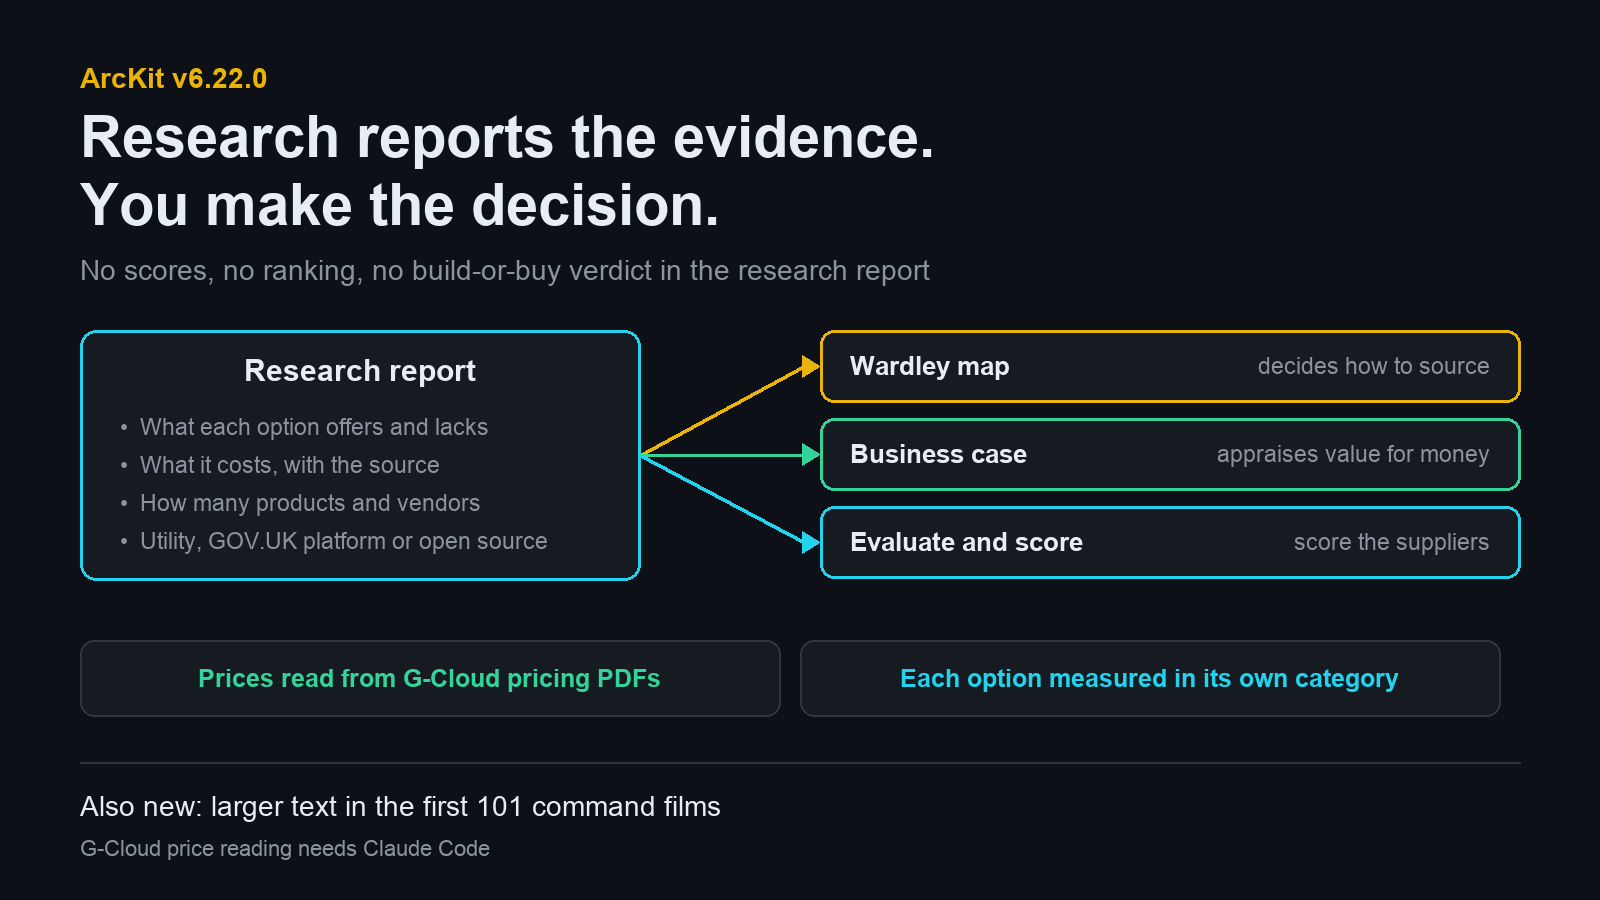
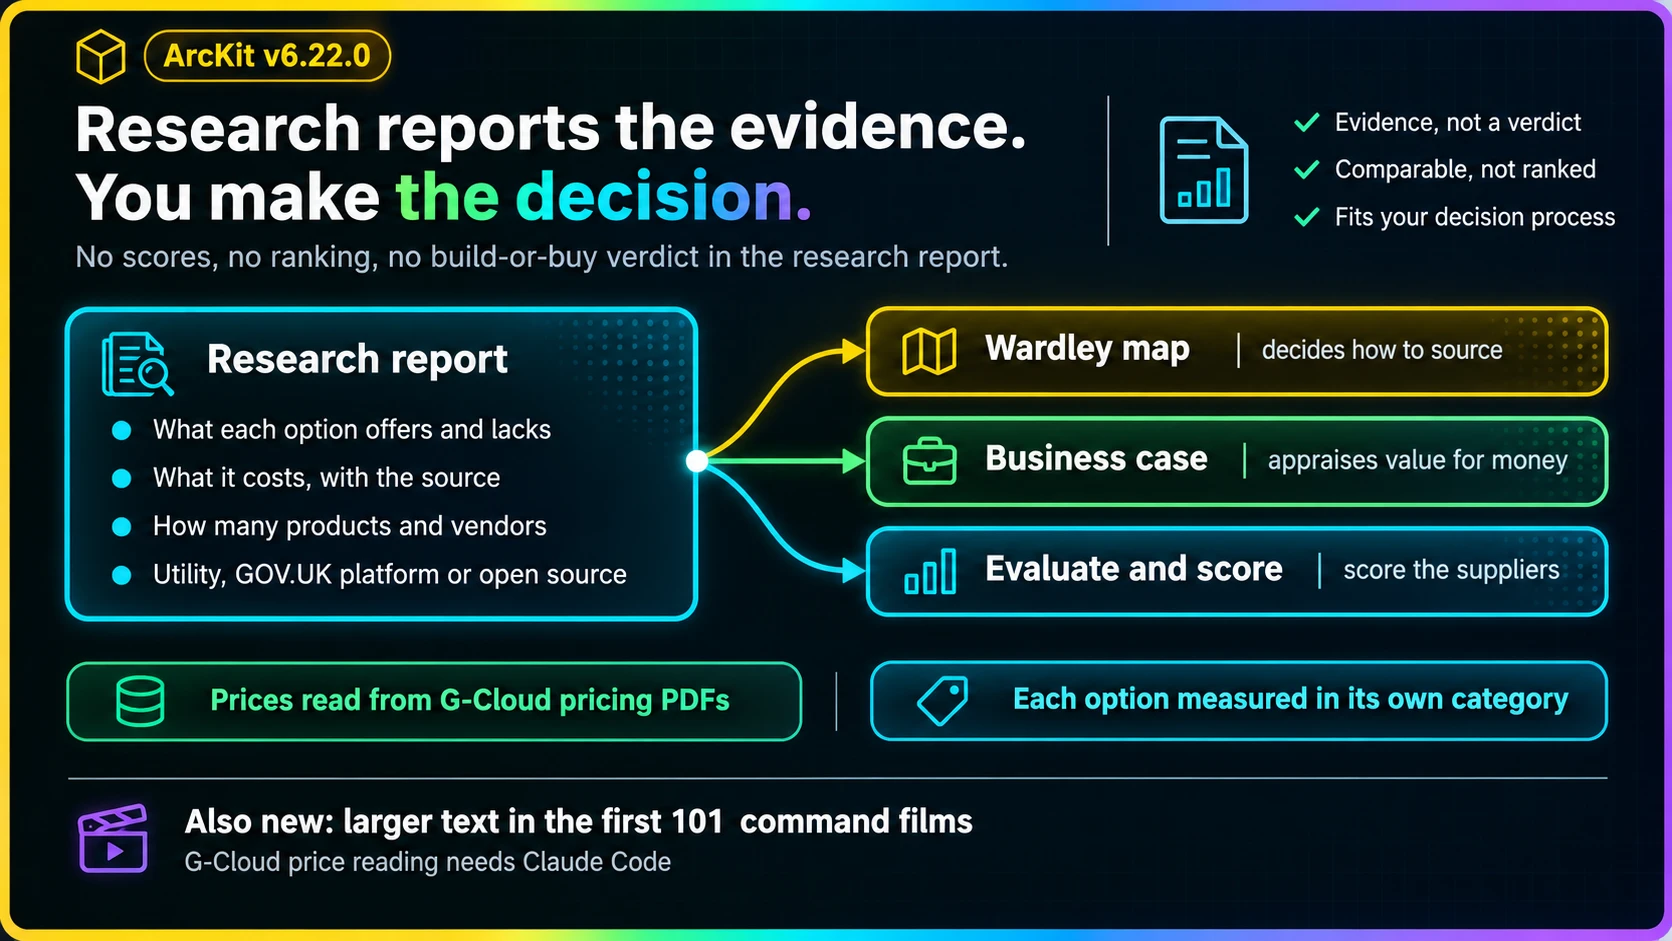
docs: use the redesigned hero for the v6.22.0 article
Claude-Session: https://claude.ai/code/session_01Hfsx57Abq4q7B4o2C98cEK

diff --git a/docs/share/2026-11-12-arckit-v6-22-research-reports-evidence.html b/docs/share/2026-11-12-arckit-v6-22-research-reports-evidence.html
@@ -23,7 +23,7 @@
     <meta property="og:url" content="https://arckit.org/share/2026-11-12-arckit-v6-22-research-reports-evidence.html">
     <meta property="og:site_name" content="ArcKit">
     <meta property="og:image" content="https://arckit.org/articles/2026-11-12-arckit-v6-22-research-reports-evidence-hero.png">
-    <meta property="og:image:alt" content="ArcKit v6.22.0 hero: the research report holds what each option offers, lacks and costs and how many products and vendors cover it, while the Wardley map decides how to source, the business case appraises value for money, and evaluate and score assess the suppliers.">
+    <meta property="og:image:alt" content="ArcKit v6.22.0 hero: evidence, not a verdict; comparable, not ranked. The research report holds what each option offers, lacks and costs and how many products and vendors cover it, while the Wardley map decides how to source, the business case appraises value for money, and evaluate and score assess the suppliers.">
     <meta name="twitter:card" content="summary_large_image">
     <meta name="twitter:title" content="ArcKit v6.22.0: Research Reports the Evidence, You Make the Decision">
     <meta name="twitter:description" content="/arckit:research now reports what each option offers, lacks and costs, and makes no build-or-buy call. It also reads prices from G-Cloud pricing documents.">
@@ -293,7 +293,7 @@
     <main class="govuk-main-wrapper" id="main-content" role="main">
         <div class="govuk-width-container">
             <a href="../articles.html" class="govuk-back-link govuk-!-margin-bottom-6">Back to Articles</a>
-<img class="app-article-hero-img" src="../articles/2026-11-12-arckit-v6-22-research-reports-evidence-hero.png" alt="ArcKit v6.22.0 hero: the research report holds what each option offers, lacks and costs and how many products and vendors cover it, while the Wardley map decides how to source, the business case appraises value for money, and evaluate and score assess the suppliers.">
+<img class="app-article-hero-img" src="../articles/2026-11-12-arckit-v6-22-research-reports-evidence-hero.png" alt="ArcKit v6.22.0 hero: evidence, not a verdict; comparable, not ranked. The research report holds what each option offers, lacks and costs and how many products and vendors cover it, while the Wardley map decides how to source, the business case appraises value for money, and evaluate and score assess the suppliers.">
 <div class="app-article-meta"><span class="app-article-meta__date">12 November 2026</span></div>
 <article id="content" class="app-markdown">
 <p><strong>ArcKit v6.22.0 is out. <code>/arckit:research</code> now reports what it found and stops there: no scores, no ranking, no build-or-buy verdict. It also reads prices from G-Cloud pricing documents, so more options arrive with a real price.</strong></p>

diff --git a/docs/articles.html b/docs/articles.html
@@ -335,7 +335,7 @@
                 <!-- 2026-11-12 ArcKit v6.22.0: Research Reports the Evidence, You Make the Decision -->
                 <article class="app-article-card">
                     <a class="app-article-card__media" href="share/2026-11-12-arckit-v6-22-research-reports-evidence.html">
-                        <img src="articles/2026-11-12-arckit-v6-22-research-reports-evidence-hero.png" alt="ArcKit v6.22.0 hero: the research report holds what each option offers, lacks and costs and how many products and vendors cover it, while the Wardley map decides how to source, the business case appraises value for money, and evaluate and score assess the suppliers." loading="lazy">
+                        <img src="articles/2026-11-12-arckit-v6-22-research-reports-evidence-hero.png" alt="ArcKit v6.22.0 hero: evidence, not a verdict; comparable, not ranked. The research report holds what each option offers, lacks and costs and how many products and vendors cover it, while the Wardley map decides how to source, the business case appraises value for money, and evaluate and score assess the suppliers." loading="lazy">
                     </a>
                     <div class="app-article-card__body">
                         <div class="app-article-card__meta">

diff --git a/docs/index.html b/docs/index.html
@@ -880,7 +880,7 @@
             <div class="app-article-teaser-grid">
                 <article class="app-article-teaser">
                     <a class="app-article-teaser__media" href="share/2026-11-12-arckit-v6-22-research-reports-evidence.html">
-                        <img src="articles/2026-11-12-arckit-v6-22-research-reports-evidence-hero.png" alt="ArcKit v6.22.0 hero: the research report holds what each option offers, lacks and costs and how many products and vendors cover it, while the Wardley map decides how to source, the business case appraises value for money, and evaluate and score assess the suppliers." loading="lazy">
+                        <img src="articles/2026-11-12-arckit-v6-22-research-reports-evidence-hero.png" alt="ArcKit v6.22.0 hero: evidence, not a verdict; comparable, not ranked. The research report holds what each option offers, lacks and costs and how many products and vendors cover it, while the Wardley map decides how to source, the business case appraises value for money, and evaluate and score assess the suppliers." loading="lazy">
                     </a>
                     <div class="app-article-teaser__body">
                         <div class="app-article-teaser__meta">

diff --git a/docs/articles/generate-hero-v6-22-research-reports-evidence.py b/docs/articles/generate-hero-v6-22-research-reports-evidence.py
@@ -5,6 +5,10 @@ decisions moved to. A strip of facts underneath. Same house style as the
 sibling generate-hero-*.py scripts.
 
     uv run --with pillow python docs/articles/generate-hero-v6-22-research-reports-evidence.py
+
+The published hero is a redesigned version of this layout, supplied by the
+maintainer on 12 November 2026. Running this script overwrites it with the
+plain version, so only run it to start a new design.
 """
 
 from pathlib import Path

diff --git a/docs/articles/2026-11-12-arckit-v6-22-research-reports-evidence-linkedin.md b/docs/articles/2026-11-12-arckit-v6-22-research-reports-evidence-linkedin.md
@@ -18,4 +18,4 @@ https://arckit.org/share/2026-11-12-arckit-v6-22-research-reports-evidence.html
 
 ## Image Alt Text
 
-ArcKit v6.22.0: research reports the evidence, you make the decision. No scores, no ranking, no build-or-buy verdict in the research report. The research report holds what each option offers and lacks, what it costs with the source, how many products and vendors cover it, and whether a utility, GOV.UK platform or open-source project does. Arrows lead to three boxes: Wardley map decides how to source, Business case appraises value for money, Evaluate and score score the suppliers. Prices read from G-Cloud pricing PDFs. Each option measured in its own category. Also new: larger text in the first 101 command films.
+ArcKit v6.22.0: research reports the evidence, you make the decision. No scores, no ranking, no build-or-buy verdict in the research report. Three ticks: evidence, not a verdict; comparable, not ranked; fits your decision process. The research report holds what each option offers and lacks, what it costs with the source, how many products and vendors cover it, and whether a utility, GOV.UK platform or open-source project does. Arrows lead to three boxes: Wardley map decides how to source, Business case appraises value for money, Evaluate and score score the suppliers. Prices read from G-Cloud pricing PDFs. Each option measured in its own category. Also new: larger text in the first 101 command films.
